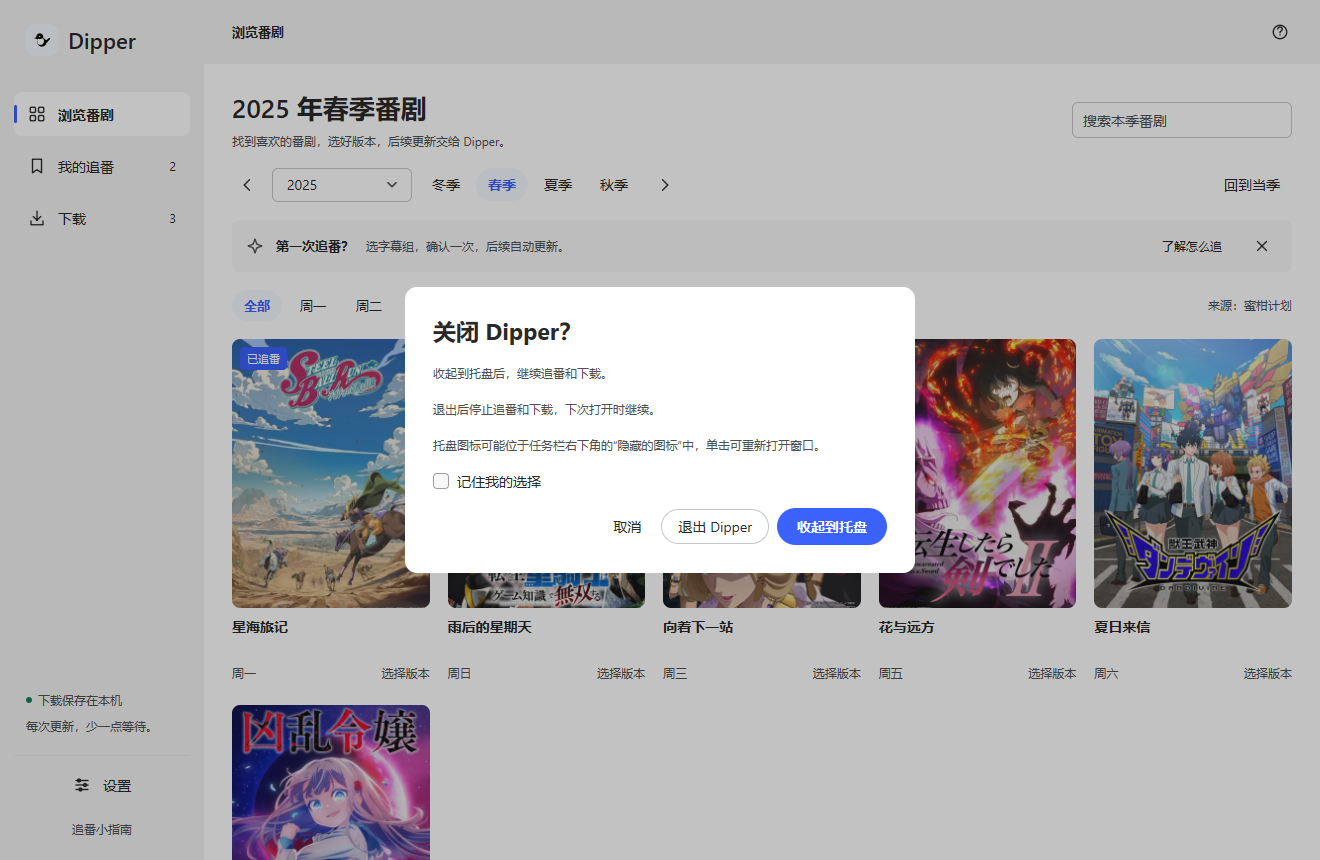
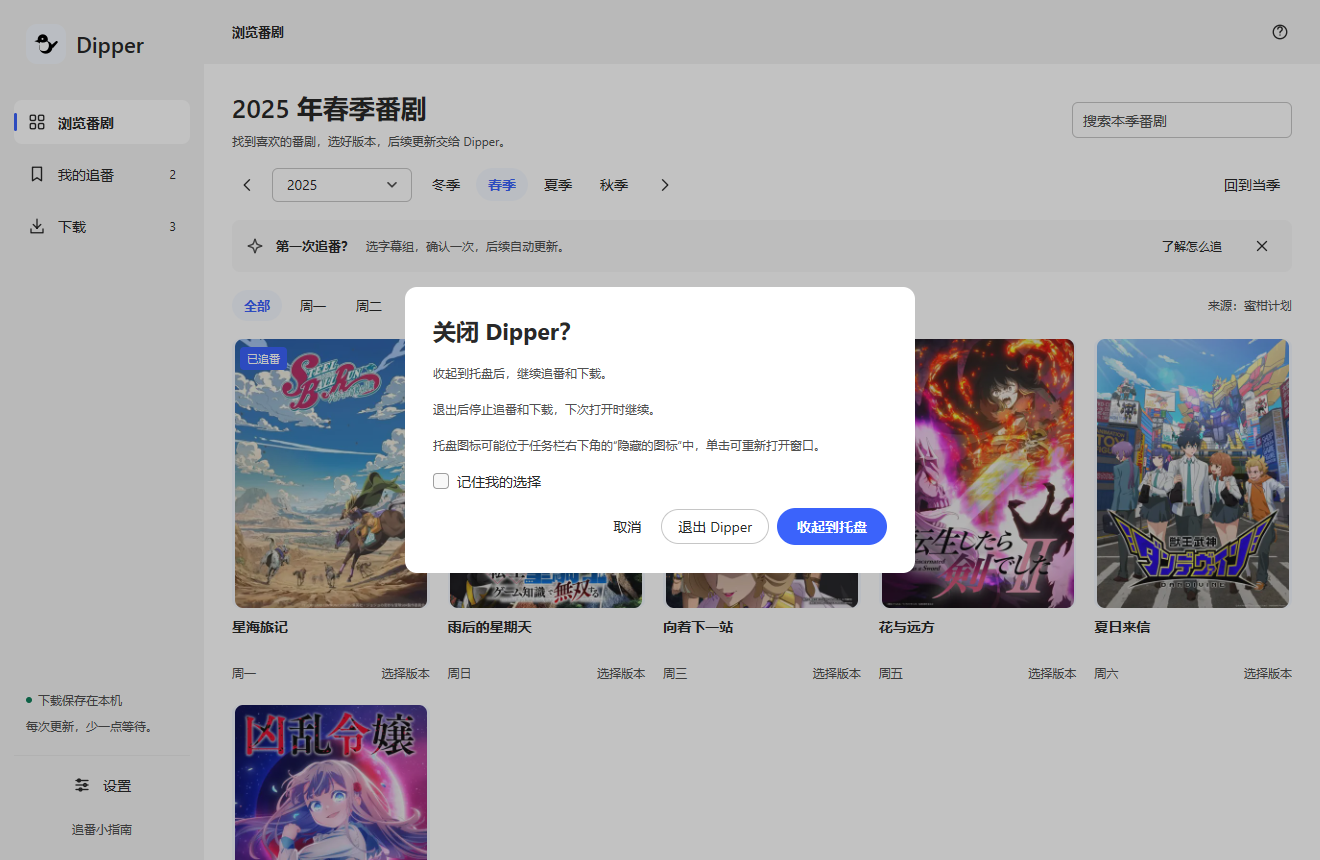
gui: enlarge the sidebar brand mark so the bird reads
The sidebar chip carried the bird at 22 DIP inside a 32 DIP tile; the
SVG's own margins left the ink about 13 DIP tall, smaller than the 18 DIP
nav icons, and the mark did not read as a bird. The chip is now a 40 DIP
blueWash tile with the bird at 32 DIP, larger than every nav icon beside
the 22 DIP wordmark. DESIGN.md records the tile and mark sizes, and the
docs reference renders are regenerated.

TestUIBrandMarkReplacesLetterPlaceholders guards the scale: its chip ink
count must be 100-500 within the chip bounds off the wordmark position.
With the old 32/22 chip put back, redcheck reports a REAL RED: "sidebar
chip dark pixels = 68; want the bird at reading scale on a wash, not a
solid square (100-500)". With the change it counts 141 and passes.
Broken on purpose to a solid ink tile it counts 1414 and fails the
upper bound.

Run: go test -count=1 -timeout 5m ./... ok; go vet ./... ok;
gofmt -l cmd internal prints nothing; CGO_ENABLED=0 GOOS=linux and
GOOS=darwin build ./cmd/dipper ok.

Not run: the live app window (it would open the real data directory);
the visual check used the offline --render path.

diff --git a/cmd/dipper/view_test.go b/cmd/dipper/view_test.go
@@ -465,7 +465,8 @@ func countDark(tt *ui.Tester, x0, y0, x1, y1 int, inkOnly bool) int {
 
 // The bird mark replaced the letter-D placeholders: no bare "D" text node
 // remains, the sidebar chip is the bird on a wash rather than a solid ink
-// square, and a cover-less card shows the bird, not a blue letter.
+// square, drawn large enough to read next to the wordmark, and a cover-less
+// card shows the bird, not a blue letter.
 func TestUIBrandMarkReplacesLetterPlaceholders(t *testing.T) {
 	s := uiFixture(t, "browse")
 	s.Catalog[0].Cover = ""
@@ -477,8 +478,8 @@ func TestUIBrandMarkReplacesLetterPlaceholders(t *testing.T) {
 	if !ok {
 		t.Fatal("wordmark missing")
 	}
-	if chip := countDark(tt, int(word.X)-42, int(word.Y)-6, int(word.X)-10, int(word.Y+word.H)+6, false); chip < 30 || chip > 400 {
-		t.Errorf("sidebar chip dark pixels = %d; want the bird on a wash, not a solid square (30-400)", chip)
+	if chip := countDark(tt, int(word.X)-50, int(word.Y)-10, int(word.X)-10, int(word.Y+word.H)+10, false); chip < 100 || chip > 500 {
+		t.Errorf("sidebar chip dark pixels = %d; want the bird at reading scale on a wash, not a solid square (100-500)", chip)
 	}
 	title, ok := tt.Find("星海旅记")
 	if !ok {

diff --git a/cmd/dipper/view.go b/cmd/dipper/view.go
@@ -218,7 +218,7 @@ func (s *State) view(c *ui.Context) {
 func (s *State) sidebar(c *ui.Context) {
 	ui.Column(c).Width(204).FillHeight().Background(chrome).Padding(24, 14, 16).Gap(8).Children(func() {
 		ui.Row(c).Gap(10).Padding(0, 12, 28).Children(func() {
-			ui.Box(c).Size(32, 32).Radius(9).Background(blueWash).Center().Children(func() { ui.Image(c, brandLogo).Size(22, 22) })
+			ui.Box(c).Size(40, 40).Radius(11).Background(blueWash).Center().Children(func() { ui.Image(c, brandLogo).Size(32, 32) })
 			ui.Text(c, "Dipper").FontSize(22).FontWeight(600).TextColor(ink)
 		})
 		for _, nav := range []struct{ id, label string }{{"browse", "浏览番剧"}, {"following", "我的追番"}, {"downloads", "下载"}} {

diff --git a/DESIGN.md b/DESIGN.md
@@ -37,8 +37,11 @@ go run build/icon/gen.go all build/icon/dist
 The app consumes the mark: the window icon and the tray come from the PNG
 copies in `cmd/dipper/assets/` (`dipper-icon.png`, `dipper-tray.png`,
 `dipper-tray-dark.png`), and the sidebar chip and the cover fallback render
-`assets/dipper.svg` (a copy of `dipper-small.svg`). The tray follows the
-taskbar's appearance: the ink cut on a light bar, the dark cut on a dark one.
+`assets/dipper.svg` (a copy of `dipper-small.svg`). The sidebar chip is a
+40 DIP `blueWash` tile carrying the bird at 32 DIP, so the mark reads at
+least as large as the 18 DIP nav icons beside the 22 DIP wordmark. The tray
+follows the taskbar's appearance: the ink cut on a light bar, the dark cut
+on a dark one.
 Refresh the copies with the same generator:
 
 ```sh
